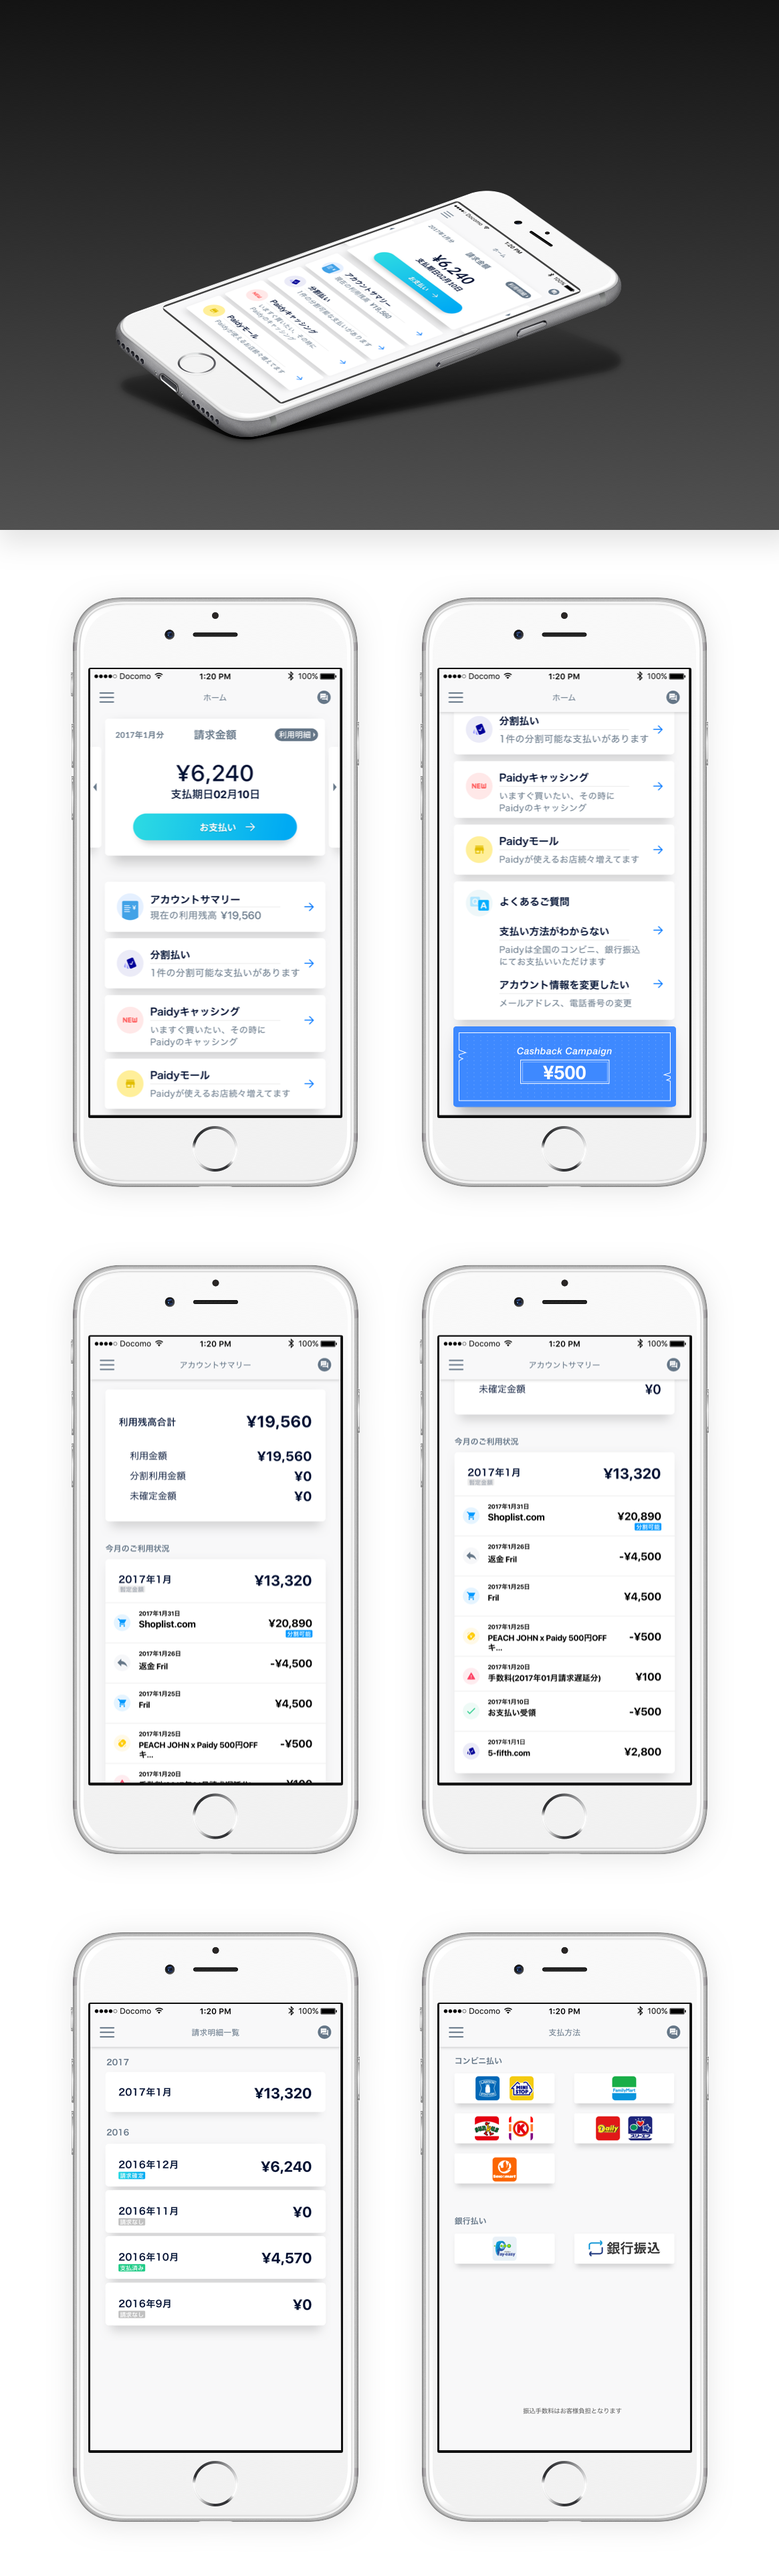
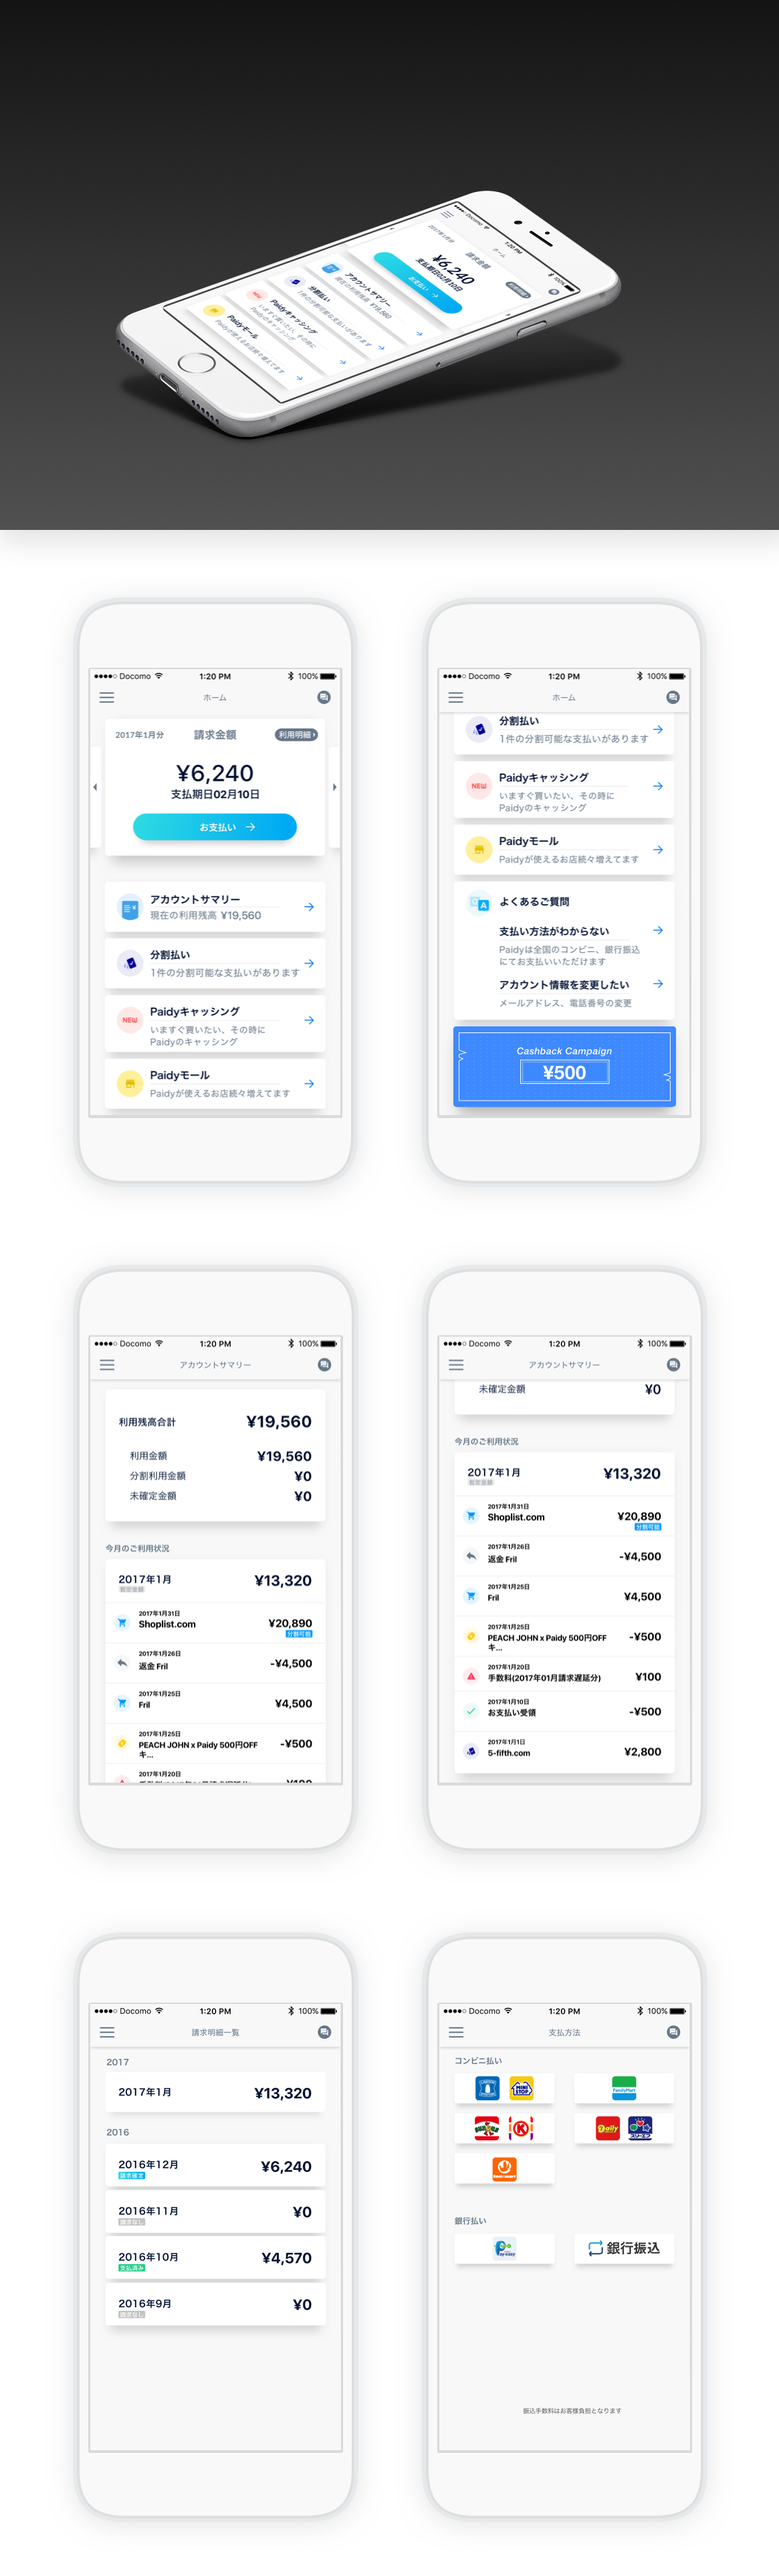
Add margin bottom

diff --git a/docs/style.css b/docs/style.css
@@ -1,2 +1,2 @@
-@import url(https://fonts.googleapis.com/css?family=Lato:300,400,700,900);header{padding:100px 0 40px;text-align:center}._2xHkwMKmyXf2C2eIadbuY3{color:#568;font-size:36px;font-weight:700;letter-spacing:5px}footer{color:#568;font-size:12px;font-weight:700;padding:80px 0;text-align:center}._1Xg-VtBGXDr9Fo07Z-3IXh{margin:0 auto;width:1100px}._2t-dHUHJ8t7DTxjrRZ--tV{height:400px;margin-bottom:50px;position:relative;width:100%}.WoO2YXQZkSI2EY_bUYHe7{bottom:0;-webkit-perspective:400px;perspective:400px;position:absolute;width:100%}._2c3Zjk3VbKFapi_Ons-E5B{background:#f5f5f5;box-shadow:0 8px 0 -4px #a9aab8,0 20px 40px -10px rgba(0,0,0,.2);height:50px;-webkit-transform:rotateX(30deg);transform:rotateX(30deg);width:100%}._2ROKxIR6QXEXKeKPEiKvKT{bottom:30px;left:0;margin:auto;position:absolute;right:0;text-align:center;z-index:100}.saa1HQRh8pe0xxLmAFt0N{background:#fff;display:inline-block;padding:40px 40px 20px;position:relative;text-align:left;width:320px;vertical-align:bottom}.saa1HQRh8pe0xxLmAFt0N:after,.saa1HQRh8pe0xxLmAFt0N:before{background:#013;border-radius:3.5px;content:" ";display:block;height:7px;opacity:.5;position:absolute;top:20px;width:7px}.saa1HQRh8pe0xxLmAFt0N:before{left:20px}.saa1HQRh8pe0xxLmAFt0N:after{right:20px}.f22d2WEq6UifUws6r8rNb{color:#235;font-size:24px;font-weight:700;margin-bottom:10px;letter-spacing:3px}._5RXIi5YnuuThkfih4s6rp{line-height:24px;margin-bottom:10px}.sfALHkxPf1r4i7vSyLVS6{font-weight:700;margin-top:10px}.sfALHkxPf1r4i7vSyLVS6 a{color:#07f;text-decoration:none}._1Lk1UhnQrSvl3DGivVSPY0,._1YNjxYCHYeHKL16-CIyO3-,._3Ha-agoVDsrN2cJpEfkdT5,.om3T7JtfHtpnGWvzrV3lo{line-height:24px}._2_MArpB9gGYFsjbMgMnixk{display:inline-block;margin-right:100px;width:500px;vertical-align:bottom}._3XdiMqR5DJR18hiwkgmU-P{height:auto;width:100%}._1zMCQSxjBD9A6Y6MEsaaDw{overflow-y:scroll;position:fixed;top:0;left:0;width:100%;height:100%;z-index:10000}._3BTJN47jyx4tdmA08NrVEO .LN0tf6KEkCNPPT8_CTPgg{opacity:1}._3BTJN47jyx4tdmA08NrVEO ._6HUNRd1sotuLWDT_s6f69{-webkit-transform:scale(1);-ms-transform:scale(1);transform:scale(1)}.LN0tf6KEkCNPPT8_CTPgg{background:rgba(0,0,0,.5);height:100000px;left:0;opacity:0;position:fixed;top:0;transition:.3s;transition-delay:1s;width:100%}._6HUNRd1sotuLWDT_s6f69{margin:80px auto;max-width:900px;position:relative;transition:.3s;transition-delay:.5s;-webkit-transform:scale(.5);-ms-transform:scale(.5);transform:scale(.5);width:90%;z-index:10000}._1WVNGYj6wqmpOkz8kA8cZi{height:100%}._1prkh-W95PSnS3_htBbbHr{box-shadow:0 20px 40px rgba(0,0,0,.4);display:block;width:100%}.OxChU3Sk31AhS_5kkva-B{margin:100px auto;width:40px;height:40px;position:relative}.OxChU3Sk31AhS_5kkva-B ._39hxUWji1Yc_wVOUJ1_Tdo{width:100%;height:100%;position:absolute;left:0;top:0}.OxChU3Sk31AhS_5kkva-B ._39hxUWji1Yc_wVOUJ1_Tdo:before{content:"";display:block;margin:0 auto;width:15%;height:15%;background-color:#fff;border-radius:100%;-webkit-animation:_qaML253Aj2EQiW8MFFYn 1.2s infinite ease-in-out both;animation:_qaML253Aj2EQiW8MFFYn 1.2s infinite ease-in-out both}.OxChU3Sk31AhS_5kkva-B ._2vsJE91iO07abeGydar_mw{-webkit-transform:rotate(30deg);-ms-transform:rotate(30deg);transform:rotate(30deg)}.OxChU3Sk31AhS_5kkva-B .Mg9e2El0uy77sGdzVQg-n{-webkit-transform:rotate(60deg);-ms-transform:rotate(60deg);transform:rotate(60deg)}.OxChU3Sk31AhS_5kkva-B ._2EDSC7w8z5NgsFPIBm_fLR{-webkit-transform:rotate(90deg);-ms-transform:rotate(90deg);transform:rotate(90deg)}.OxChU3Sk31AhS_5kkva-B ._2Qt3yrj-CuLxUM1JxYGNrv{-webkit-transform:rotate(120deg);-ms-transform:rotate(120deg);transform:rotate(120deg)}.OxChU3Sk31AhS_5kkva-B ._30x94rFHYubtBmSiI__PxR{-webkit-transform:rotate(150deg);-ms-transform:rotate(150deg);transform:rotate(150deg)}.OxChU3Sk31AhS_5kkva-B ._2s-PsbY42kKGmBUy0NrYs{-webkit-transform:rotate(180deg);-ms-transform:rotate(180deg);transform:rotate(180deg)}.OxChU3Sk31AhS_5kkva-B .AzMpoK-kvXSDQN7tZ-w_V{-webkit-transform:rotate(210deg);-ms-transform:rotate(210deg);transform:rotate(210deg)}.OxChU3Sk31AhS_5kkva-B ._1uT4xR0RAO6WVa0dMC0703{-webkit-transform:rotate(240deg);-ms-transform:rotate(240deg);transform:rotate(240deg)}.OxChU3Sk31AhS_5kkva-B ._1aZWEx9E7j7ycrVuAyWLUf{-webkit-transform:rotate(270deg);-ms-transform:rotate(270deg);transform:rotate(270deg)}.OxChU3Sk31AhS_5kkva-B ._2-dDuhDS6kM3YLaHbeKq0Z{-webkit-transform:rotate(300deg);-ms-transform:rotate(300deg);transform:rotate(300deg)}.OxChU3Sk31AhS_5kkva-B ._1TAhMNTaZQYEIXW4LQZBFL{-webkit-transform:rotate(330deg);-ms-transform:rotate(330deg);transform:rotate(330deg)}.OxChU3Sk31AhS_5kkva-B ._2vsJE91iO07abeGydar_mw:before{-webkit-animation-delay:-1.1s;animation-delay:-1.1s}.OxChU3Sk31AhS_5kkva-B .Mg9e2El0uy77sGdzVQg-n:before{-webkit-animation-delay:-1s;animation-delay:-1s}.OxChU3Sk31AhS_5kkva-B ._2EDSC7w8z5NgsFPIBm_fLR:before{-webkit-animation-delay:-.9s;animation-delay:-.9s}.OxChU3Sk31AhS_5kkva-B ._2Qt3yrj-CuLxUM1JxYGNrv:before{-webkit-animation-delay:-.8s;animation-delay:-.8s}.OxChU3Sk31AhS_5kkva-B ._30x94rFHYubtBmSiI__PxR:before{-webkit-animation-delay:-.7s;animation-delay:-.7s}.OxChU3Sk31AhS_5kkva-B ._2s-PsbY42kKGmBUy0NrYs:before{-webkit-animation-delay:-.6s;animation-delay:-.6s}.OxChU3Sk31AhS_5kkva-B .AzMpoK-kvXSDQN7tZ-w_V:before{-webkit-animation-delay:-.5s;animation-delay:-.5s}.OxChU3Sk31AhS_5kkva-B ._1uT4xR0RAO6WVa0dMC0703:before{-webkit-animation-delay:-.4s;animation-delay:-.4s}.OxChU3Sk31AhS_5kkva-B ._1aZWEx9E7j7ycrVuAyWLUf:before{-webkit-animation-delay:-.3s;animation-delay:-.3s}.OxChU3Sk31AhS_5kkva-B ._2-dDuhDS6kM3YLaHbeKq0Z:before{-webkit-animation-delay:-.2s;animation-delay:-.2s}.OxChU3Sk31AhS_5kkva-B ._1TAhMNTaZQYEIXW4LQZBFL:before{-webkit-animation-delay:-.1s;animation-delay:-.1s}@-webkit-keyframes _qaML253Aj2EQiW8MFFYn{0%,39%,to{opacity:0}40%{opacity:1}}@-webkit-keyframes _3vA8xJoyWLlWnvxsiJxWzr{0%,39%,to{opacity:0}40%{opacity:1}}@keyframes _3vA8xJoyWLlWnvxsiJxWzr{0%,39%,to{opacity:0}40%{opacity:1}}*{font-family:Lato,sans-serif}#_1hMSPEZMKYyHa1GX29tv5L,body,html{min-height:100%}body{background-color:#e5e5ea;background-image:-webkit-repeating-radial-gradient(center center,rgba(0,0,0,.1),rgba(0,0,0,.1) 4px,transparent 0,transparent 100%);background-image:repeating-radial-gradient(center center,rgba(0,0,0,.1),rgba(0,0,0,.1) 4px,transparent 0,transparent 100%);background-size:180px 180px}
+@import url(https://fonts.googleapis.com/css?family=Lato:300,400,700,900);header{padding:100px 0 40px;text-align:center}._2xHkwMKmyXf2C2eIadbuY3{color:#568;font-size:36px;font-weight:700;letter-spacing:5px}footer{color:#568;font-size:12px;font-weight:700;padding:80px 0;text-align:center}._1Xg-VtBGXDr9Fo07Z-3IXh{margin:0 auto;width:1100px}._2t-dHUHJ8t7DTxjrRZ--tV{height:400px;margin-bottom:50px;position:relative;width:100%}.WoO2YXQZkSI2EY_bUYHe7{bottom:0;-webkit-perspective:400px;perspective:400px;position:absolute;width:100%}._2c3Zjk3VbKFapi_Ons-E5B{background:#f5f5f5;box-shadow:0 8px 0 -4px #a9aab8,0 20px 40px -10px rgba(0,0,0,.2);height:50px;-webkit-transform:rotateX(30deg);transform:rotateX(30deg);width:100%}._2ROKxIR6QXEXKeKPEiKvKT{bottom:30px;left:0;margin:auto;position:absolute;right:0;text-align:center;z-index:100}.saa1HQRh8pe0xxLmAFt0N{background:#fff;display:inline-block;margin-bottom:40px;padding:40px 40px 20px;position:relative;text-align:left;width:320px;vertical-align:bottom}.saa1HQRh8pe0xxLmAFt0N:after,.saa1HQRh8pe0xxLmAFt0N:before{background:#013;border-radius:3.5px;content:" ";display:block;height:7px;opacity:.5;position:absolute;top:20px;width:7px}.saa1HQRh8pe0xxLmAFt0N:before{left:20px}.saa1HQRh8pe0xxLmAFt0N:after{right:20px}.f22d2WEq6UifUws6r8rNb{color:#235;font-size:24px;font-weight:700;margin-bottom:10px;letter-spacing:3px}._5RXIi5YnuuThkfih4s6rp{line-height:24px;margin-bottom:10px}.sfALHkxPf1r4i7vSyLVS6{font-weight:700;margin-top:10px}.sfALHkxPf1r4i7vSyLVS6 a{color:#07f;text-decoration:none}._1Lk1UhnQrSvl3DGivVSPY0,._1YNjxYCHYeHKL16-CIyO3-,._3Ha-agoVDsrN2cJpEfkdT5,.om3T7JtfHtpnGWvzrV3lo{line-height:24px}._2_MArpB9gGYFsjbMgMnixk{display:inline-block;margin-right:100px;width:500px;vertical-align:bottom}._3XdiMqR5DJR18hiwkgmU-P{height:auto;width:100%}._1zMCQSxjBD9A6Y6MEsaaDw{overflow-y:scroll;position:fixed;top:0;left:0;width:100%;height:100%;z-index:10000}._3BTJN47jyx4tdmA08NrVEO .LN0tf6KEkCNPPT8_CTPgg{opacity:1}._3BTJN47jyx4tdmA08NrVEO ._6HUNRd1sotuLWDT_s6f69{-webkit-transform:scale(1);-ms-transform:scale(1);transform:scale(1)}.LN0tf6KEkCNPPT8_CTPgg{background:rgba(0,0,0,.5);height:100000px;left:0;opacity:0;position:fixed;top:0;transition:.3s;transition-delay:1s;width:100%}._6HUNRd1sotuLWDT_s6f69{margin:80px auto;max-width:900px;position:relative;transition:.3s;transition-delay:.5s;-webkit-transform:scale(.5);-ms-transform:scale(.5);transform:scale(.5);width:90%;z-index:10000}._1WVNGYj6wqmpOkz8kA8cZi{height:100%}._1prkh-W95PSnS3_htBbbHr{box-shadow:0 20px 40px rgba(0,0,0,.4);display:block;width:100%}.OxChU3Sk31AhS_5kkva-B{margin:100px auto;width:40px;height:40px;position:relative}.OxChU3Sk31AhS_5kkva-B ._39hxUWji1Yc_wVOUJ1_Tdo{width:100%;height:100%;position:absolute;left:0;top:0}.OxChU3Sk31AhS_5kkva-B ._39hxUWji1Yc_wVOUJ1_Tdo:before{content:"";display:block;margin:0 auto;width:15%;height:15%;background-color:#fff;border-radius:100%;-webkit-animation:_qaML253Aj2EQiW8MFFYn 1.2s infinite ease-in-out both;animation:_qaML253Aj2EQiW8MFFYn 1.2s infinite ease-in-out both}.OxChU3Sk31AhS_5kkva-B ._2vsJE91iO07abeGydar_mw{-webkit-transform:rotate(30deg);-ms-transform:rotate(30deg);transform:rotate(30deg)}.OxChU3Sk31AhS_5kkva-B .Mg9e2El0uy77sGdzVQg-n{-webkit-transform:rotate(60deg);-ms-transform:rotate(60deg);transform:rotate(60deg)}.OxChU3Sk31AhS_5kkva-B ._2EDSC7w8z5NgsFPIBm_fLR{-webkit-transform:rotate(90deg);-ms-transform:rotate(90deg);transform:rotate(90deg)}.OxChU3Sk31AhS_5kkva-B ._2Qt3yrj-CuLxUM1JxYGNrv{-webkit-transform:rotate(120deg);-ms-transform:rotate(120deg);transform:rotate(120deg)}.OxChU3Sk31AhS_5kkva-B ._30x94rFHYubtBmSiI__PxR{-webkit-transform:rotate(150deg);-ms-transform:rotate(150deg);transform:rotate(150deg)}.OxChU3Sk31AhS_5kkva-B ._2s-PsbY42kKGmBUy0NrYs{-webkit-transform:rotate(180deg);-ms-transform:rotate(180deg);transform:rotate(180deg)}.OxChU3Sk31AhS_5kkva-B .AzMpoK-kvXSDQN7tZ-w_V{-webkit-transform:rotate(210deg);-ms-transform:rotate(210deg);transform:rotate(210deg)}.OxChU3Sk31AhS_5kkva-B ._1uT4xR0RAO6WVa0dMC0703{-webkit-transform:rotate(240deg);-ms-transform:rotate(240deg);transform:rotate(240deg)}.OxChU3Sk31AhS_5kkva-B ._1aZWEx9E7j7ycrVuAyWLUf{-webkit-transform:rotate(270deg);-ms-transform:rotate(270deg);transform:rotate(270deg)}.OxChU3Sk31AhS_5kkva-B ._2-dDuhDS6kM3YLaHbeKq0Z{-webkit-transform:rotate(300deg);-ms-transform:rotate(300deg);transform:rotate(300deg)}.OxChU3Sk31AhS_5kkva-B ._1TAhMNTaZQYEIXW4LQZBFL{-webkit-transform:rotate(330deg);-ms-transform:rotate(330deg);transform:rotate(330deg)}.OxChU3Sk31AhS_5kkva-B ._2vsJE91iO07abeGydar_mw:before{-webkit-animation-delay:-1.1s;animation-delay:-1.1s}.OxChU3Sk31AhS_5kkva-B .Mg9e2El0uy77sGdzVQg-n:before{-webkit-animation-delay:-1s;animation-delay:-1s}.OxChU3Sk31AhS_5kkva-B ._2EDSC7w8z5NgsFPIBm_fLR:before{-webkit-animation-delay:-.9s;animation-delay:-.9s}.OxChU3Sk31AhS_5kkva-B ._2Qt3yrj-CuLxUM1JxYGNrv:before{-webkit-animation-delay:-.8s;animation-delay:-.8s}.OxChU3Sk31AhS_5kkva-B ._30x94rFHYubtBmSiI__PxR:before{-webkit-animation-delay:-.7s;animation-delay:-.7s}.OxChU3Sk31AhS_5kkva-B ._2s-PsbY42kKGmBUy0NrYs:before{-webkit-animation-delay:-.6s;animation-delay:-.6s}.OxChU3Sk31AhS_5kkva-B .AzMpoK-kvXSDQN7tZ-w_V:before{-webkit-animation-delay:-.5s;animation-delay:-.5s}.OxChU3Sk31AhS_5kkva-B ._1uT4xR0RAO6WVa0dMC0703:before{-webkit-animation-delay:-.4s;animation-delay:-.4s}.OxChU3Sk31AhS_5kkva-B ._1aZWEx9E7j7ycrVuAyWLUf:before{-webkit-animation-delay:-.3s;animation-delay:-.3s}.OxChU3Sk31AhS_5kkva-B ._2-dDuhDS6kM3YLaHbeKq0Z:before{-webkit-animation-delay:-.2s;animation-delay:-.2s}.OxChU3Sk31AhS_5kkva-B ._1TAhMNTaZQYEIXW4LQZBFL:before{-webkit-animation-delay:-.1s;animation-delay:-.1s}@-webkit-keyframes _qaML253Aj2EQiW8MFFYn{0%,39%,to{opacity:0}40%{opacity:1}}@-webkit-keyframes _3vA8xJoyWLlWnvxsiJxWzr{0%,39%,to{opacity:0}40%{opacity:1}}@keyframes _3vA8xJoyWLlWnvxsiJxWzr{0%,39%,to{opacity:0}40%{opacity:1}}*{font-family:Lato,sans-serif}#_1hMSPEZMKYyHa1GX29tv5L,body,html{min-height:100%}body{background-color:#e5e5ea;background-image:-webkit-repeating-radial-gradient(center center,rgba(0,0,0,.1),rgba(0,0,0,.1) 4px,transparent 0,transparent 100%);background-image:repeating-radial-gradient(center center,rgba(0,0,0,.1),rgba(0,0,0,.1) 4px,transparent 0,transparent 100%);background-size:180px 180px}
 /*# sourceMappingURL=style.css.map*/

diff --git a/src/components/Works/Work.scss b/src/components/Works/Work.scss
@@ -30,6 +30,7 @@
 .descriptionWrapper {
   background: #fff;
   display: inline-block;
+  margin-bottom: 40px;
   padding: 40px 40px 20px;
   position: relative;
   text-align: left;
